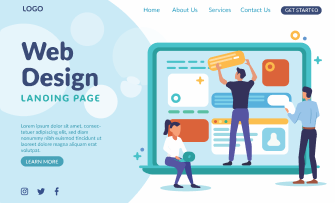
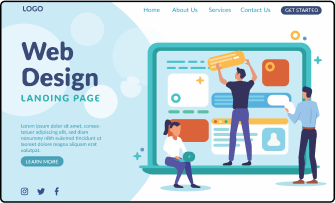
portfolio

Changed region(s): [[0.0, 0.0, 1.0, 1.0]]

diff --git a/startup-website/src/App.js b/startup-website/src/App.js
@@ -1,5 +1,5 @@
 import React from 'react'
-import { Header, Socials, Frame1, Frame2, Talents, Team, Footer, PortfolioHeader, PortfolioBody } from "./components"
+import { Header, Socials, Frame1, Frame2, Talents, Team, Footer, Portfolio } from "./components"
 
 const App = () => {
   return (
@@ -11,8 +11,7 @@ const App = () => {
     <Talents />
     <Team />
    <Footer />
-   <PortfolioHeader />
-   <PortfolioBody />
+   <Portfolio />
   </div>
   )
 }

diff --git a/startup-website/src/components/index.js b/startup-website/src/components/index.js
@@ -5,7 +5,6 @@ import Frame2 from "./Frame2/Frame2"
 import Talents from "./Talents/Talents"
 import Team from "./Team/Team"
 import Footer from "./Footer/Footer"
-import PortfolioHeader from "./PortfolioHeader/PortfolioHeader"
-import PortfolioBody from "./PortfolioBody/PortfolioBody"
+import Portfolio from "./Portfolio/Portfolio"
 
-export { Header, Socials, Frame1, Frame2, Talents, Team, Footer, PortfolioHeader, PortfolioBody }
+export { Header, Socials, Frame1, Frame2, Talents, Team, Footer, Portfolio }